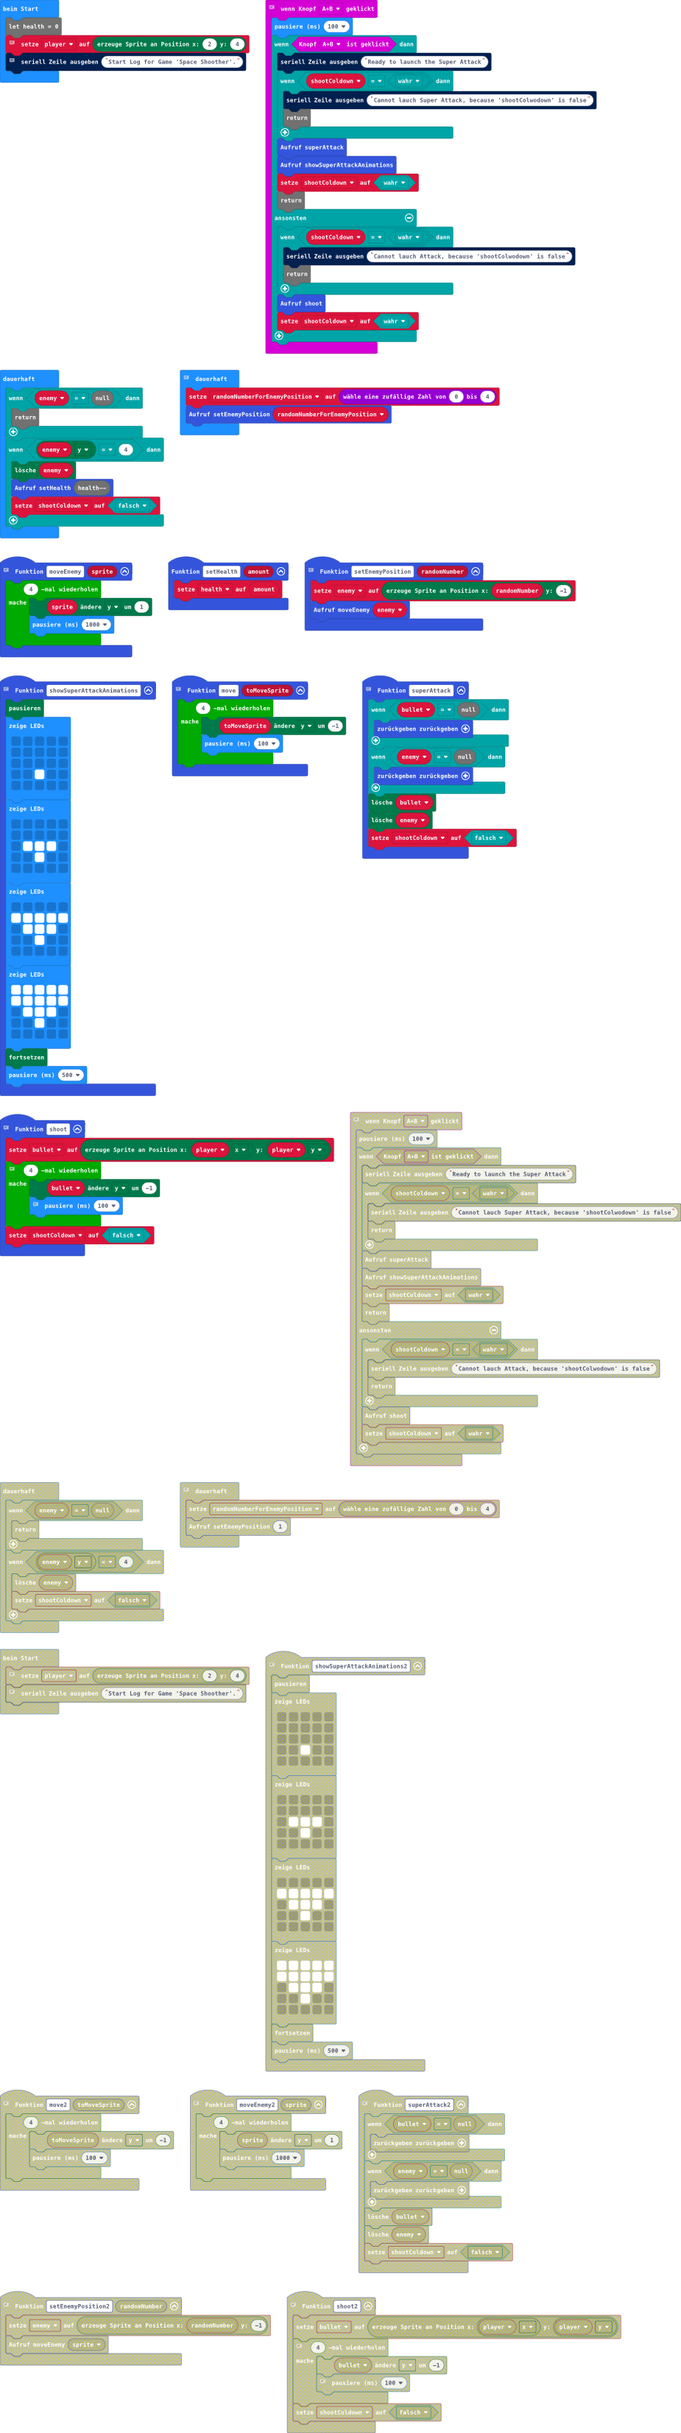
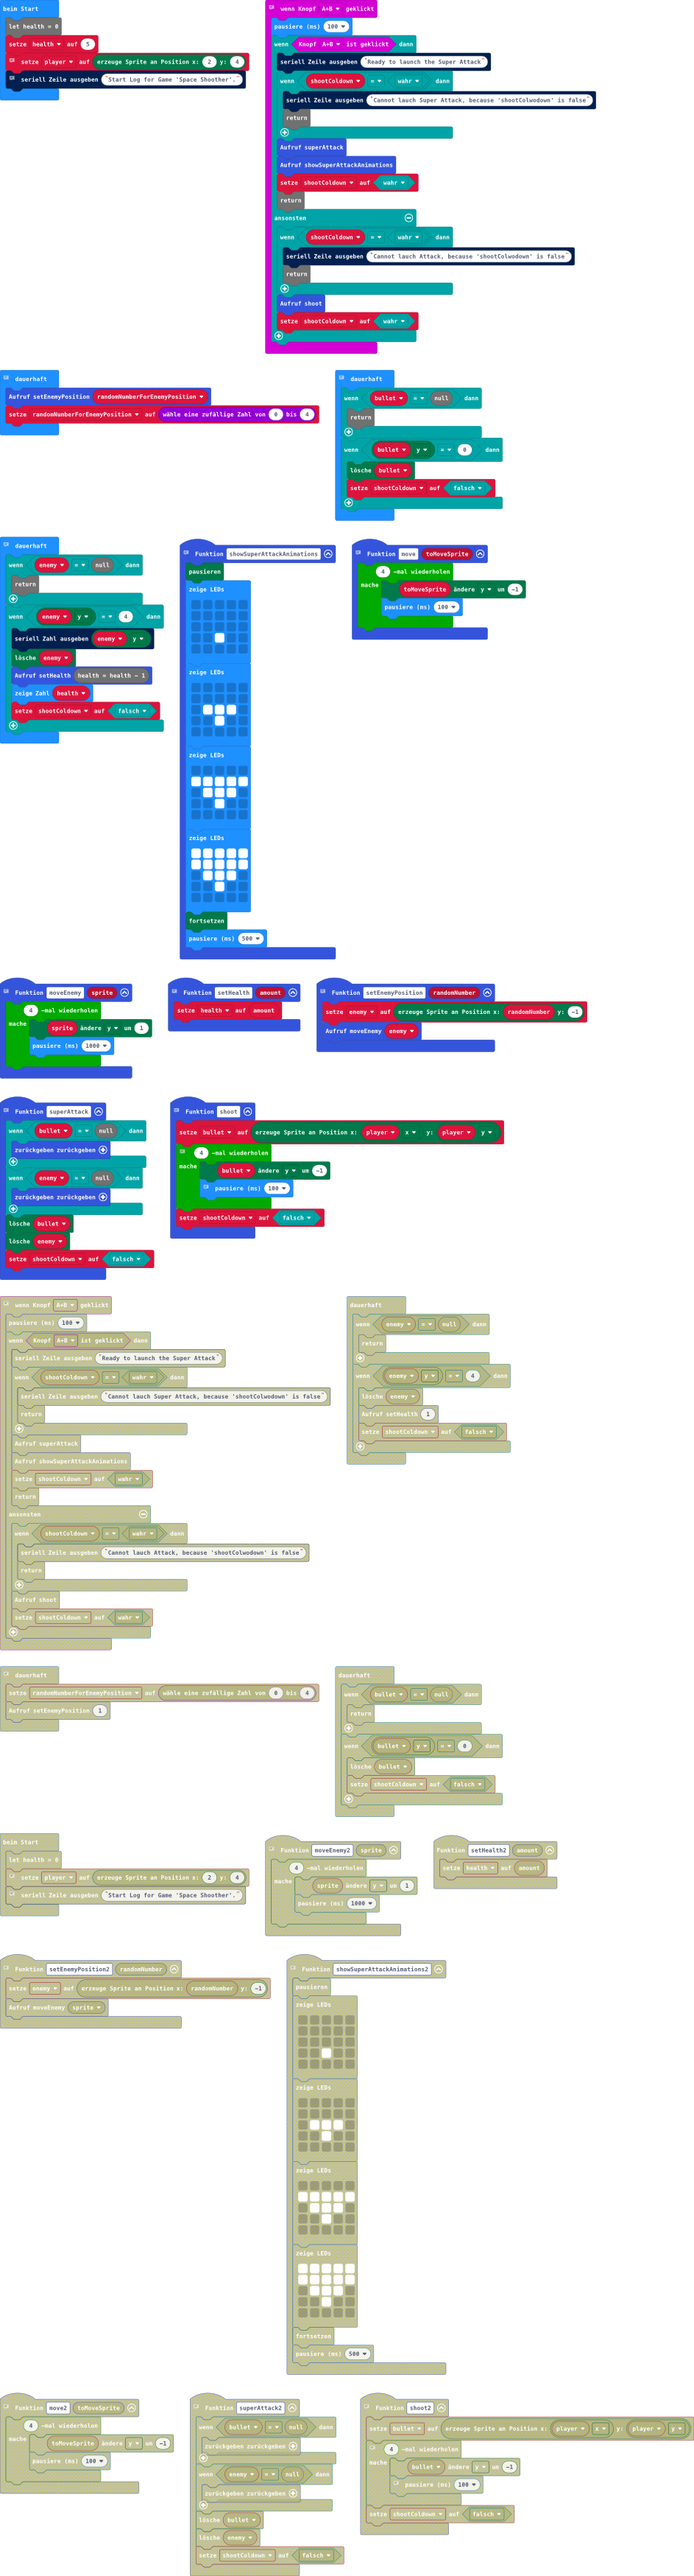
Aktualisiere main.blocks, main.ts

diff --git a/main.ts b/main.ts
@@ -54,6 +54,7 @@ function shoot () {
     }
     shootColdown = false
 }
+// Set the health
 function setHealth (amount: number) {
     health = amount
 }
@@ -113,10 +114,26 @@ let shootColdown = false
 let bullet: game.LedSprite = null
 let player: game.LedSprite = null
 let health = 0
+health = 5
 // Create Player
 player = game.createSprite(2, 4)
-// Log
+// Startlog
 serial.writeLine("Start Log for Game 'Space Shoother'.")
+// Forever function for spawning Enemys with a random Position
+basic.forever(function () {
+    setEnemyPosition(randomNumberForEnemyPosition)
+    randomNumberForEnemyPosition = randint(0, 4)
+})
+// Forever function for deleting bullet
+basic.forever(function () {
+    if (bullet == null) {
+        return
+    }
+    if (bullet.get(LedSpriteProperty.Y) == 0) {
+        bullet.delete()
+        shootColdown = false
+    }
+})
 basic.forever(function () {
     if (enemy == null) {
         return
@@ -129,27 +146,16 @@ basic.forever(function () {
         music.playMelody("C C D C C C D C ", 4500)
     }
 })
+// Delete enemy wenn his Y - Coordinate is '4'
 basic.forever(function () {
     if (enemy == null) {
         return
     }
     if (enemy.get(LedSpriteProperty.Y) == 4) {
+        serial.writeNumber(enemy.get(LedSpriteProperty.Y))
         enemy.delete()
-        setHealth(health--)
-        shootColdown = false
-    }
-})
-// Forever function for spawning Enemys with a random Position
-basic.forever(function () {
-    randomNumberForEnemyPosition = randint(0, 4)
-    setEnemyPosition(randomNumberForEnemyPosition)
-})
-basic.forever(function () {
-    if (bullet == null) {
-        return
-    }
-    if (bullet.get(LedSpriteProperty.Y) == 0) {
-        bullet.delete()
+        setHealth(health = health - 1)
+        basic.showNumber(health)
         shootColdown = false
     }
 })
